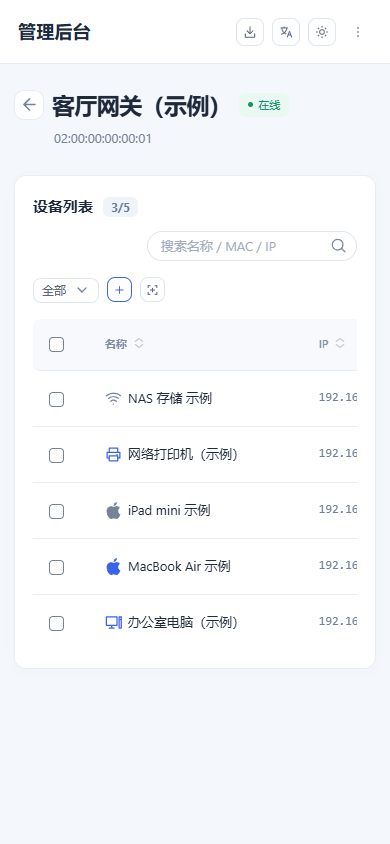
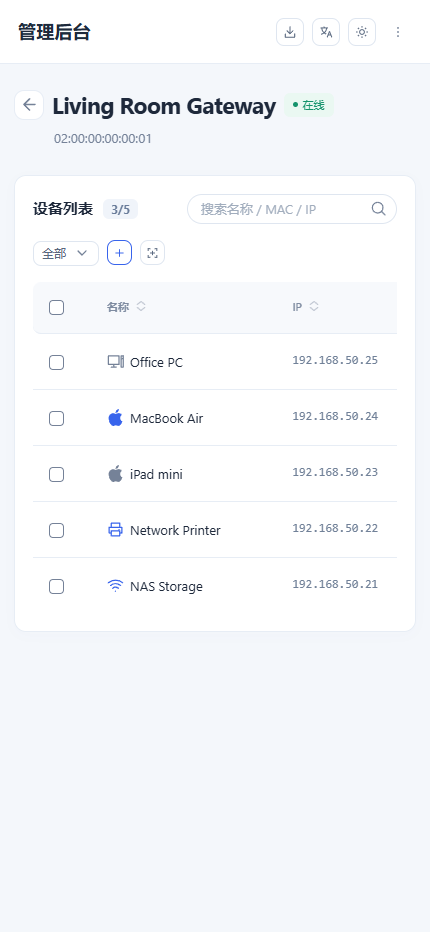
Separate English and Chinese docs; add safe release packaging

diff --git a/tools/package_website_public.py b/tools/package_website_public.py
@@ -1,0 +1,67 @@
+"""Build a deployable website source archive without project-specific endpoints."""
+
+import hashlib
+import json
+import re
+import sys
+from pathlib import Path
+from zipfile import ZIP_DEFLATED, ZipFile
+
+ROOT = Path(__file__).resolve().parents[1]
+sys.path.insert(0, str(ROOT))
+from app.releases import WEBSITE_FILES
+
+HOST_REPLACEMENTS = {
+    "YOUR_SERVER_HOST": "YOUR_SERVER_HOST",
+    "/opt/wol-gateway": "/opt/wol-gateway",
+    "/srv/www/wol-gateway": "/srv/www/wol-gateway",
+    "/var/backups/wol-gateway": "/var/backups/wol-gateway",
+    "@project-owner": "@project-owner",
+}
+
+
+def main():
+    base = (ROOT / "app/templates/base.html").read_text(encoding="utf-8")
+    version = re.search(r"v(\d+\.\d+\.\d+)", base).group(1)
+    build = re.search(r"app\.css\?v=([\d-]+)", base).group(1)
+    files = {}
+    for name in WEBSITE_FILES:
+        path = ROOT / name
+        if path.is_symlink() or not path.resolve().is_relative_to(ROOT):
+            raise RuntimeError(f"Invalid website source path: {name}")
+        raw = path.read_bytes()
+        try:
+            content = raw.decode("utf-8")
+        except UnicodeDecodeError as error:
+            raise RuntimeError(f"Non-UTF8 website source: {name}") from error
+        for private_value, public_value in HOST_REPLACEMENTS.items():
+            content = content.replace(private_value, public_value)
+        raw = content.encode("utf-8")
+        if re.search(rb"189\.1\.243\.201|-----BEGIN (?:RSA |EC |OPENSSH )?PRIVATE KEY-----", raw):
+            raise RuntimeError(f"Sensitive website content: {name}")
+        files[name] = raw
+    manifest = {
+        "version": version,
+        "build": build,
+        "sha256": {
+            name: hashlib.sha256(data).hexdigest()
+            for name, data in sorted(files.items())
+        },
+    }
+    output = ROOT / "dist" / f"wol-website-{version}-public.zip"
+    output.parent.mkdir(exist_ok=True)
+    with ZipFile(output, "w", ZIP_DEFLATED) as archive:
+        for name, data in sorted(files.items()):
+            archive.writestr(name, data)
+        archive.writestr("release-manifest.json", json.dumps(manifest, indent=2))
+    with ZipFile(output) as archive:
+        if archive.testzip():
+            raise RuntimeError("Website source archive failed CRC validation")
+        for name, data in files.items():
+            if archive.read(name) != data:
+                raise RuntimeError(f"Archive content mismatch: {name}")
+    print(f"PASS: {output} ({len(files)} files; server endpoint replaced)")
+
+
+if __name__ == "__main__":
+    main()

diff --git a/tools/package_release.py b/tools/package_release.py
@@ -21,6 +21,7 @@ HOST_REPLACEMENTS = {
 def source_paths():
     paths = [
         ROOT / "README.md",
+        ROOT / "README.zh-CN.md",
         ROOT / "LICENSE",
         ROOT / "NOTICE",
         ROOT / "CONTRIBUTING.md",
@@ -33,9 +34,12 @@ def source_paths():
         ROOT / "deploy" / "setup.html",
         ROOT / "tests" / "deployment_configurator.test.cjs",
         ROOT / "tools" / "package_release.py",
+        ROOT / "tools" / "package_website_public.py",
         ROOT / "tools" / "format_web.py",
         ROOT / "screenshots" / "gateway-overview-desktop.png",
         ROOT / "screenshots" / "device-list-mobile.png",
+        ROOT / "screenshots" / "gateway-overview-desktop-en.png",
+        ROOT / "screenshots" / "device-list-mobile-en.png",
     ]
     for base, extensions in (
         (ROOT / "app", {".py", ".js", ".css", ".html", ".pem"}),
@@ -110,7 +114,13 @@ def main():
         raw = public_bytes(path)
         validate(name, raw)
         files[name] = raw
-    if not {"LICENSE", "README.md", "deploy/setup.html", "deploy/README.md"} <= files.keys():
+    if not {
+        "LICENSE",
+        "README.md",
+        "README.zh-CN.md",
+        "deploy/setup.html",
+        "deploy/README.md",
+    } <= files.keys():
         raise RuntimeError("Public release documentation is incomplete")
     manifest = {name: sha256(data).hexdigest() for name, data in sorted(files.items())}
     version_text = (ROOT / "app/templates/base.html").read_text(encoding="utf-8")

diff --git a/README.md b/README.md
@@ -1,84 +1,14 @@
 # WOL Gateway
 
-**界面截图 / Screenshots**
+![Gateway management on desktop](screenshots/gateway-overview-desktop-en.png)
 
-![网关管理桌面界面 / Gateway management on desktop](screenshots/gateway-overview-desktop.png)
-
-![设备列表移动端界面 / Device list on mobile](screenshots/device-list-mobile.png)
-
-面向家庭和小型办公室的 ESP32-C3 局域网设备管理系统。网关通过 Wi-Fi 接入服务端，扫描和监测局域网设备，并提供 Wake-on-LAN 唤醒、Windows 关机服务、用户权限、设备分享和固件远程 OTA。
-
-项目包含 FastAPI 网站与设备接入服务、ESP32-C3 固件、Windows WOL 关机服务，以及离线部署配置向导。部署向导只在浏览器本地生成配置文件，不会上传主机名、密码或密钥。
-
-## 功能
-
-- ESP32-C3 Wi-Fi 配网、网关配对、局域网扫描和在线状态监测。
-- 多用户与网关归属、权限控制、审计记录及设备分享。
-- WOL 唤醒；可选 Windows 服务提供电脑在线状态和关机能力。
-- 固件签名验证、远程 OTA 与失败回滚。
-- SQLite 本地开发，MySQL 部署；MQTT 用于网关与服务端通信。
-
-## 目录
-
-| 目录 | 内容 |
-| --- | --- |
-| app/ | FastAPI 应用、网页模板和静态资源 |
-| firmware/ | ESP32-C3 固件源码和构建配置 |
-| windows-agent/native/ | Windows WOL 关机服务源码 |
-| deploy/setup.html | 离线部署配置向导 |
-| tools/package_release.py | 生成脱敏源码发布 ZIP |
-
-预构建固件、Windows EXE、数据库、生产配置、签名私钥和内部运维记录不会进入源码发布 ZIP。OTA 验签公钥不是签名私钥；发布者必须自行保管签名私钥，并配置自己的服务器地址和信任证书。
-
-## 本地运行
-
-需要 Python 3.10+、Node.js（前端测试）和可访问的 MQTT Broker。设置 MQTT 与数据库环境变量后运行：
-
-    py -m venv .venv
-    .venv\Scripts\python.exe -m pip install -r requirements.txt
-    $env:DEBUG = 'false'
-    $env:MQTT_HOST = '127.0.0.1'
-    $env:MQTT_PORT = '1883'
-    .venv\Scripts\python.exe run.py
-
-首次打开 http://127.0.0.1:8088/setup 设置管理员密码。纯本地开发可使用 SQLite；部署前应配置独立数据库账号、MQTT ACL、HTTPS 证书和非调试运行模式。不要将真实配置、数据库、设备绑定密钥、MQTT 密码、TLS 私钥或固件签名私钥提交到版本库。
-
-## 部署配置向导
-
-用浏览器打开 deploy/setup.html。填写部署域名、数据库和 MQTT 参数后，可下载生成的服务端环境变量、MySQL 凭据文件和 systemd 示例。所有输入只保存在当前页面内存，不调用网络接口；生成后请按 deploy/README.md 检查权限、TLS 端口、反向代理和防火墙，再安装服务。向导不会自动登录服务器或执行远程命令。
-
-服务器地址也需要配置到固件和 Windows 服务源码中。源码包会将项目作者使用的服务器地址替换为 YOUR_SERVER_HOST；发布者须在编译前将占位符改为自己的域名，并使用自己的信任证书和 OTA 签名密钥。
-
-## 构建和测试
-
-开发依赖安装后，可运行 Python 单元测试和 Node 测试：
-
-    .venv\Scripts\python.exe -m pip install -r requirements-dev.txt
-    .venv\Scripts\python.exe -m unittest discover -s tests -v
-    node --test tests/portal_flow.test.cjs tests/gateway_pairing.test.cjs
-    .\firmware\build.ps1
-
-Windows 服务可用 windows-agent/native/Build.ps1 构建。真实硬件刷写、服务安装、关机及远程部署均需在目标环境单独验证。
-
-## 许可证
-
-本项目使用 GNU Affero General Public License v3.0 or later，见 LICENSE。项目署名见 NOTICE。保留原作者及版权声明；分发修改版本时，在修改过的文件或随源码发布的变更记录中注明修改内容和日期，并依 AGPL 提供完整对应源码。通过网络向用户提供修改版服务时，也需向这些用户提供对应源码。AGPL 允许商业使用、修改和再分发，但要求遵守源码提供和相同许可证条款。
-
-请另外检查依赖、字体、图标、证书及其他第三方组件各自的许可；本项目许可证不覆盖第三方材料。
-
-## English
+![Device list on mobile](screenshots/device-list-mobile-en.png)
 
 WOL Gateway is a self-hosted ESP32-C3 and LAN device management system for homes and small offices. Gateways connect to the server over Wi-Fi to discover and monitor LAN devices. The system provides Wake-on-LAN, an optional Windows shutdown service, multi-user access control, device sharing, signed firmware OTA, and an offline deployment configurator.
 
 The deployment configurator generates server configuration files locally in your browser. It does not upload hostnames, passwords, or keys.
 
-### Screenshots
-
-![Gateway management on desktop](screenshots/gateway-overview-desktop.png)
-
-![Device list on mobile](screenshots/device-list-mobile.png)
-
-### Features
+## Features
 
 - ESP32-C3 Wi-Fi provisioning, gateway pairing, LAN discovery, and presence monitoring.
 - Multiple users, gateway ownership, access control, audit records, and device sharing.
@@ -86,7 +16,7 @@ The deployment configurator generates server configuration files locally in your
 - Signed firmware verification, remote OTA, and rollback after failed updates.
 - SQLite for local development, MySQL for deployment, and MQTT for gateway-to-server communication.
 
-### Repository Layout
+## Repository Layout
 
 | Path | Contents |
 | --- | --- |
@@ -98,7 +28,7 @@ The deployment configurator generates server configuration files locally in your
 
 Prebuilt firmware, Windows executables, databases, production configuration, signing private keys, and internal operations records are excluded from the source archive. The OTA verification certificate is public material, not a signing key. Configure your own server address and trust certificate, and keep your signing private key secure.
 
-### Run Locally
+## Run Locally
 
 Requires Python 3.10+, Node.js for frontend tests, and an accessible MQTT broker. Configure the MQTT and database environment variables, then run:
 
@@ -111,13 +41,13 @@ Requires Python 3.10+, Node.js for frontend tests, and an accessible MQTT broker
 
 Open `http://127.0.0.1:8088/setup` on first run to set the administrator password. SQLite can be used for local development. Before deployment, configure a dedicated database account, MQTT ACLs, HTTPS, and non-debug mode. Never commit real configuration, databases, device binding secrets, MQTT passwords, TLS private keys, or firmware signing private keys.
 
-### Deployment Configurator
+## Deployment Configurator
 
 Open `deploy/setup.html` in a browser. Enter the deployment domain, database, and MQTT settings to download server environment variables, MySQL credentials, and systemd examples. Inputs remain in the current page's memory; the configurator makes no network requests and does not log into or execute commands on a server. Review `deploy/README.md` for file permissions, TLS, reverse proxy, and firewall setup.
 
-The server address must also be configured in the firmware and Windows service source. The source archive replaces the original project server address with `YOUR_SERVER_HOST`. Replace that placeholder before building, and use your own trust certificate and OTA signing key.
+Configure your own server domain in the firmware and Windows service source before building. Public source archives replace the original server address with `YOUR_SERVER_HOST`; use your own trust certificate and OTA signing key.
 
-### Build and Test
+## Build and Test
 
 After installing development dependencies, run Python unit tests and Node tests:
 
@@ -128,8 +58,10 @@ After installing development dependencies, run Python unit tests and Node tests:
 
 Build the Windows service with `windows-agent/native/Build.ps1`. Verify hardware flashing, service installation, shutdown, and remote deployment separately in their target environments.
 
-### License
+## License
 
 This project is licensed under GNU Affero General Public License v3.0 or later; see `LICENSE`. Attribution details are in `NOTICE`. Retain the original author and copyright notices. When distributing modified versions, add prominent notices to modified files or a change log shipped with the source, including what changed and when. Provide the complete corresponding source under AGPL terms. If you offer a modified version as a network service, provide its corresponding source to those users. Commercial use, modification, and redistribution are permitted subject to the source and license requirements.
 
 Check the licenses of dependencies, fonts, icons, certificates, and other third-party components separately. This project's license does not cover third-party materials.
+
+简体中文说明见 [README.zh-CN.md](README.zh-CN.md)。

diff --git a/README.zh-CN.md b/README.zh-CN.md
@@ -1,0 +1,67 @@
+# WOL Gateway
+
+![网关管理桌面界面](screenshots/gateway-overview-desktop.png)
+
+![设备列表移动端界面](screenshots/device-list-mobile.png)
+
+面向家庭和小型办公室的 ESP32-C3 局域网设备管理系统。网关通过 Wi-Fi 接入服务端，扫描和监测局域网设备，并提供 Wake-on-LAN 唤醒、Windows 关机服务、多用户权限、设备分享和固件远程 OTA。
+
+部署配置向导只在浏览器本地生成配置文件，不会上传主机名、密码或密钥。
+
+## 功能
+
+- ESP32-C3 Wi-Fi 配网、网关配对、局域网扫描和在线状态监测。
+- 多用户、网关归属、权限控制、审计记录及设备分享。
+- Wake-on-LAN 唤醒；可选 Windows 服务提供电脑在线状态和关机能力。
+- 固件签名验证、远程 OTA 与失败回滚。
+- SQLite 本地开发、MySQL 部署；MQTT 用于网关与服务端通信。
+
+## 目录
+
+| 路径 | 内容 |
+| --- | --- |
+| `app/` | FastAPI 应用、网页模板和静态资源 |
+| `firmware/` | ESP32-C3 固件源码和构建配置 |
+| `windows-agent/native/` | Windows WOL 关机服务源码 |
+| `deploy/setup.html` | 离线部署配置向导 |
+| `tools/package_release.py` | 生成脱敏源码发布 ZIP |
+
+预构建固件、Windows EXE、数据库、生产配置、签名私钥和内部运维记录不会进入源码发布包。OTA 验签证书是公开证书，不是签名私钥。请配置自己的服务器域名和信任证书，并妥善保管签名私钥。
+
+## 本地运行
+
+需要 Python 3.10+、前端测试所需的 Node.js，以及可访问的 MQTT Broker。配置 MQTT 和数据库环境变量后运行：
+
+    py -m venv .venv
+    .venv\Scripts\python.exe -m pip install -r requirements.txt
+    $env:DEBUG = 'false'
+    $env:MQTT_HOST = '127.0.0.1'
+    $env:MQTT_PORT = '1883'
+    .venv\Scripts\python.exe run.py
+
+首次打开 `http://127.0.0.1:8088/setup` 设置管理员密码。纯本地开发可使用 SQLite；部署前请配置独立数据库账号、MQTT ACL、HTTPS 证书和非调试运行模式。不要提交真实配置、数据库、设备绑定密钥、MQTT 密码、TLS 私钥或固件签名私钥。
+
+## 部署配置向导
+
+用浏览器打开 `deploy/setup.html`。填写部署域名、数据库和 MQTT 参数后，可下载生成的服务端环境变量、MySQL 凭据文件和 systemd 示例。输入只保存在当前页面内存中，向导不会发起网络请求、登录服务器或执行远程命令。安装服务前请阅读 `deploy/README.md`，检查文件权限、TLS、反向代理和防火墙。
+
+编译固件和 Windows 服务前，请配置自己的服务器域名。公开源码包会将项目原有服务器地址替换为 `YOUR_SERVER_HOST`；请同时使用自己的信任证书和 OTA 签名密钥。
+
+## 构建与测试
+
+安装开发依赖后，可运行 Python 单元测试和 Node 测试：
+
+    .venv\Scripts\python.exe -m pip install -r requirements-dev.txt
+    .venv\Scripts\python.exe -m unittest discover -s tests -v
+    node --test tests/portal_flow.test.cjs tests/gateway_pairing.test.cjs
+    .\firmware\build.ps1
+
+Windows 服务可使用 `windows-agent/native/Build.ps1` 构建。硬件刷写、服务安装、关机及远程部署需在目标环境单独验证。
+
+## 许可证
+
+本项目采用 GNU Affero General Public License v3.0 or later，详见 `LICENSE`。署名要求见 `NOTICE`。请保留原作者和版权声明；分发修改版本时，在修改过的文件或随源码发布的变更记录中显著注明修改内容和日期，并按 AGPL 提供完整对应源码。通过网络向用户提供修改版服务时，也需向这些用户提供对应源码。允许商业使用、修改和再分发，但须遵守源码提供及相同许可证条款。
+
+依赖、字体、图标、证书及其他第三方组件的许可需另行检查；本项目许可证不覆盖第三方材料。
+
+English documentation: [README.md](README.md)。

diff --git a/CONTRIBUTING.md b/CONTRIBUTING.md
@@ -5,3 +5,7 @@ By submitting a contribution, you agree that it is distributed under the project
 When modifying covered source, add a prominent notice describing the change and its date to the changed file or to a changelog shipped with that source version. Keep existing author, copyright, and license notices. Distribute the complete corresponding source under AGPL terms when required by the license, including for modified versions offered as a network service.
 
 Do not include production credentials, databases, private keys, device identifiers, deployment logs, build output, or prebuilt release binaries in source changes. Use example values and update tests or build documentation when changing a component protocol.
+
+## Release workflow
+
+Keep `README.md` in English as the default GitHub landing page. Put Simplified Chinese documentation in `README.zh-CN.md`; each page must use screenshots in its own language. For every completed code or artifact change, update the relevant record, commit and sync the current public source to Git, and publish the latest website deployment source, firmware package, and Windows service executable as GitHub Release assets when they are safe to distribute. Build a public website package with `tools/package_website_public.py`; do not upload the raw production website download. Before publishing, verify versions, archive integrity, checksums, and scan all source and binary assets for credentials, private keys, databases, internal paths, and server addresses. Do not upload an artifact that contains data explicitly designated private; make its endpoint configurable and rebuild it first.
